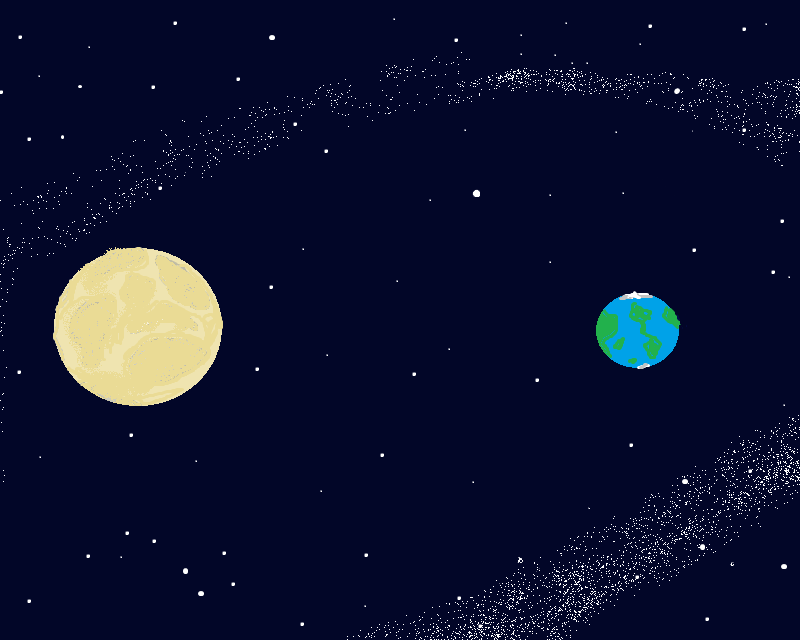
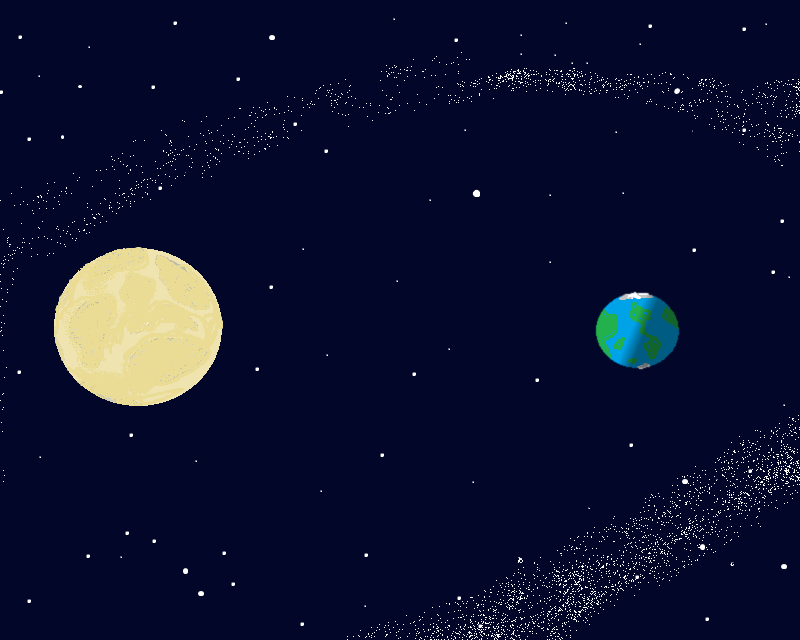
Added player name query & transfer, added alternative backgroung

Changed region(s): [[0.7812, 0.4375, 0.875, 0.5938]]

diff --git a/src/TFClient/tcpmanager.cpp b/src/TFClient/tcpmanager.cpp
@@ -12,7 +12,8 @@ TCPManager::TCPManager() : sock()
                      &TCPManager::onError);
 }
 
-void TCPManager::connectTo(const QString &hostname, const int port) {
+void TCPManager::connectTo(const QString &hostname, const int port, QString name) {
+    this->name = name;
     this->port = port;
     sock.connectToHost(hostname, port);
 }
@@ -56,7 +57,7 @@ void TCPManager::onConnected() {
     QDataStream out(&block, QIODevice::WriteOnly);
     out.setVersion(QDataStream::Qt_5_9);
 
-    out << QString("TFGAME-CLIENT");
+    out << QString("TFGAME-CLIENT") << name;
     sock.write(block);
     sock.flush();
 

diff --git a/src/TFServer/tcpmanager.cpp b/src/TFServer/tcpmanager.cpp
@@ -114,9 +114,10 @@ void TCPManager::newClient(){
     in->setVersion(QDataStream::Qt_5_9);
 
     QString cver;
+    QString name;
     do{
         in->startTransaction();
-        *in >> cver;
+        *in >> cver >> name;
     }while(!in->commitTransaction());
 
     if(cver != "TFGAME-CLIENT") {
@@ -142,7 +143,7 @@ void TCPManager::newClient(){
     socket->write(msg);
     socket->flush();
 
-    mainWindow->addPlayer(in, id);
+    mainWindow->addPlayer(in, id, name);
 }
 
 void TCPManager::clientLost(){

diff --git a/src/TFClient/frame.cpp b/src/TFClient/frame.cpp
@@ -33,7 +33,10 @@ Canvas& Frame::getCanvas() const {
 
 void Frame::onConnectClicked() {
     ui->status->setText("Trying to connect...");
-    emit requestConnection(ui->s_address->text(), ui->s_port->text().toInt());
+    QString name = ui->s_name->text();
+    if(name.isEmpty())
+        name = "NONAME_SUCKER";
+    emit requestConnection(ui->s_address->text(), ui->s_port->text().toInt(), name);
 }
 
 void Frame::onConnected() {

diff --git a/src/TFServer/mainwindow.cpp b/src/TFServer/mainwindow.cpp
@@ -125,8 +125,8 @@ void MainWindow::endGame(){
  * Adds a player to the game once connected
  * sock: the tcp socket for receiving data
  */
-void MainWindow::addPlayer(QDataStream *stream, qint16 id){
-    player* p = new player(id, stream, map, this);
+void MainWindow::addPlayer(QDataStream *stream, qint16 id, QString name){
+    player* p = new player(id, name, stream, map, this);
     objects[id] = p;
     players[id] = p;
 

diff --git a/src/TFServer/player.cpp b/src/TFServer/player.cpp
@@ -17,9 +17,9 @@
 #define JUMPSTRENGTH -2.0
 #define COLLWIDTH 15
 
-player::player(qint16 id, QDataStream *stream, Map *map, MainWindow *main)
+player::player(qint16 id, QString name, QDataStream *stream, Map *map, MainWindow *main)
     : stuff(Stuff::PLAYER, id, map, main, stream),
-    name("NONAME_SUCKER"),
+    name(name),
     ammoLeft(AMMOMAX),
     jetpackStatus(false),
     fuelLeft(JETFUELMAX),

diff --git a/src/TFClient/tcpmanager.h b/src/TFClient/tcpmanager.h
@@ -10,7 +10,7 @@ class TCPManager : public QObject
     Q_OBJECT
 public:
     TCPManager();
-    void connectTo(const QString&, const int);
+    void connectTo(const QString&, const int, QString);
     void disconnect(const QString&);
 
 public slots:
@@ -22,6 +22,7 @@ private:
     QTcpSocket sock;
     uint port;
     QDataStream* data;
+    QString name;
 
 private slots:
     void onReadyRead();

diff --git a/src/TFClient/canvas.cpp b/src/TFClient/canvas.cpp
@@ -16,7 +16,7 @@ Canvas::Canvas(QWidget* p) :
 
     scene = new QGraphicsScene(0,0,4000,4000, this);
     this->setScene(scene);
-    QPixmap pm(":/images/Images/background.png");
+    QPixmap pm(":/images/Images/background_GMaps.png");
     pm = pm.scaled(scene->width(), scene->height());
     background = new QGraphicsPixmapItem();
     background->setPixmap(pm);

diff --git a/src/TFServer/mainwindow.h b/src/TFServer/mainwindow.h
@@ -25,7 +25,7 @@ class MainWindow : public QMainWindow
 public:
     explicit MainWindow(QWidget *parent = 0);
     ~MainWindow();
-    void addPlayer(QDataStream *stream, qint16 id);
+    void addPlayer(QDataStream *stream, qint16 id, QString name);
     void addProjectile(projectile *p);
     void remove(projectile *p);
     void remove(player *p);

diff --git a/src/TFServer/player.h b/src/TFServer/player.h
@@ -12,7 +12,7 @@ class Map;
 class player : public stuff
 {
 public:
-    player(qint16 id, QDataStream *stream, Map* map, MainWindow *main);
+    player(qint16 id, QString name, QDataStream *stream, Map* map, MainWindow *main);
     ~player();
     //QDataStream& operator<<(QDataStream& stream);
 

diff --git a/src/TFClient/frame.h b/src/TFClient/frame.h
@@ -25,7 +25,7 @@ private slots:
     void dbg(const QMap<int, bool>&);
     void onConnectClicked();
 signals:
-    void requestConnection(const QString, const int);
+    void requestConnection(const QString, const int, QString);
 
 private:
     Ui::Frame *ui;
